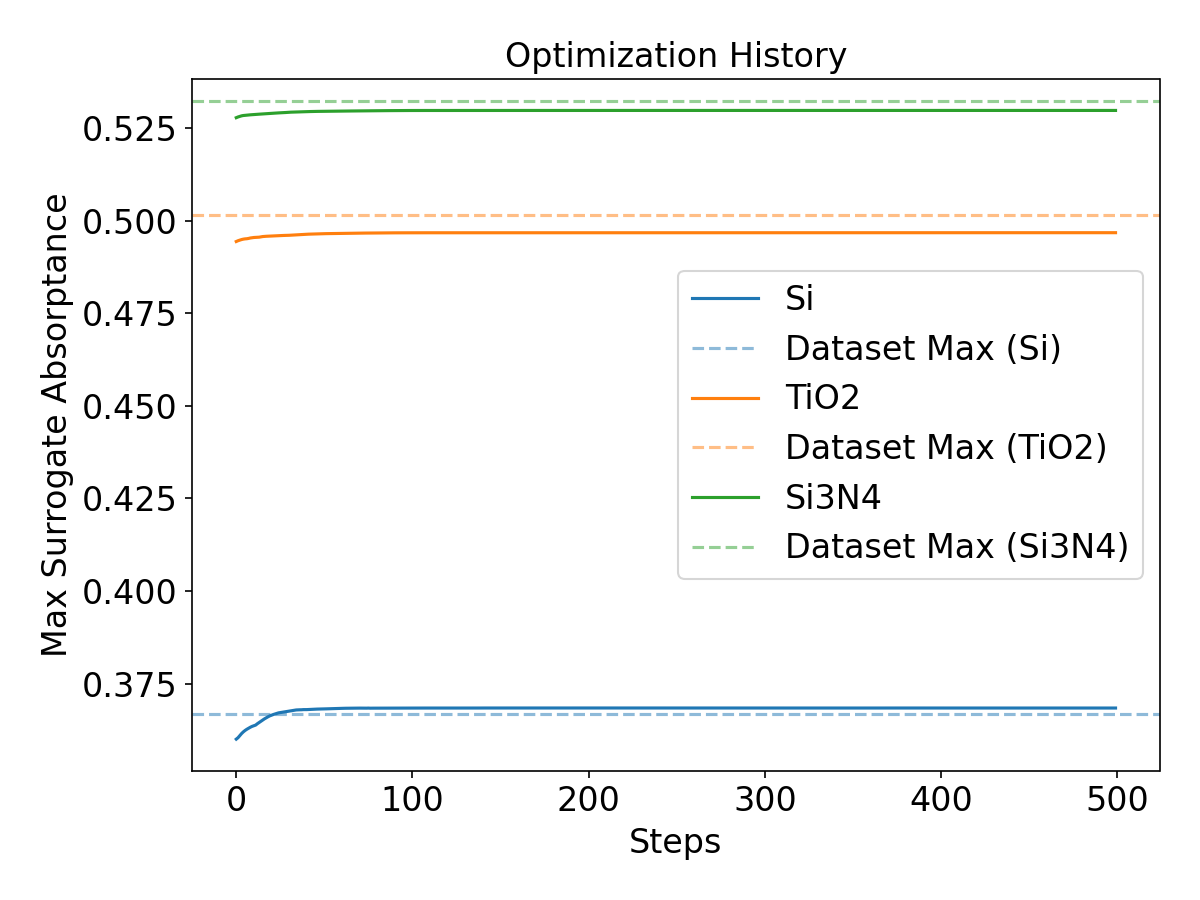
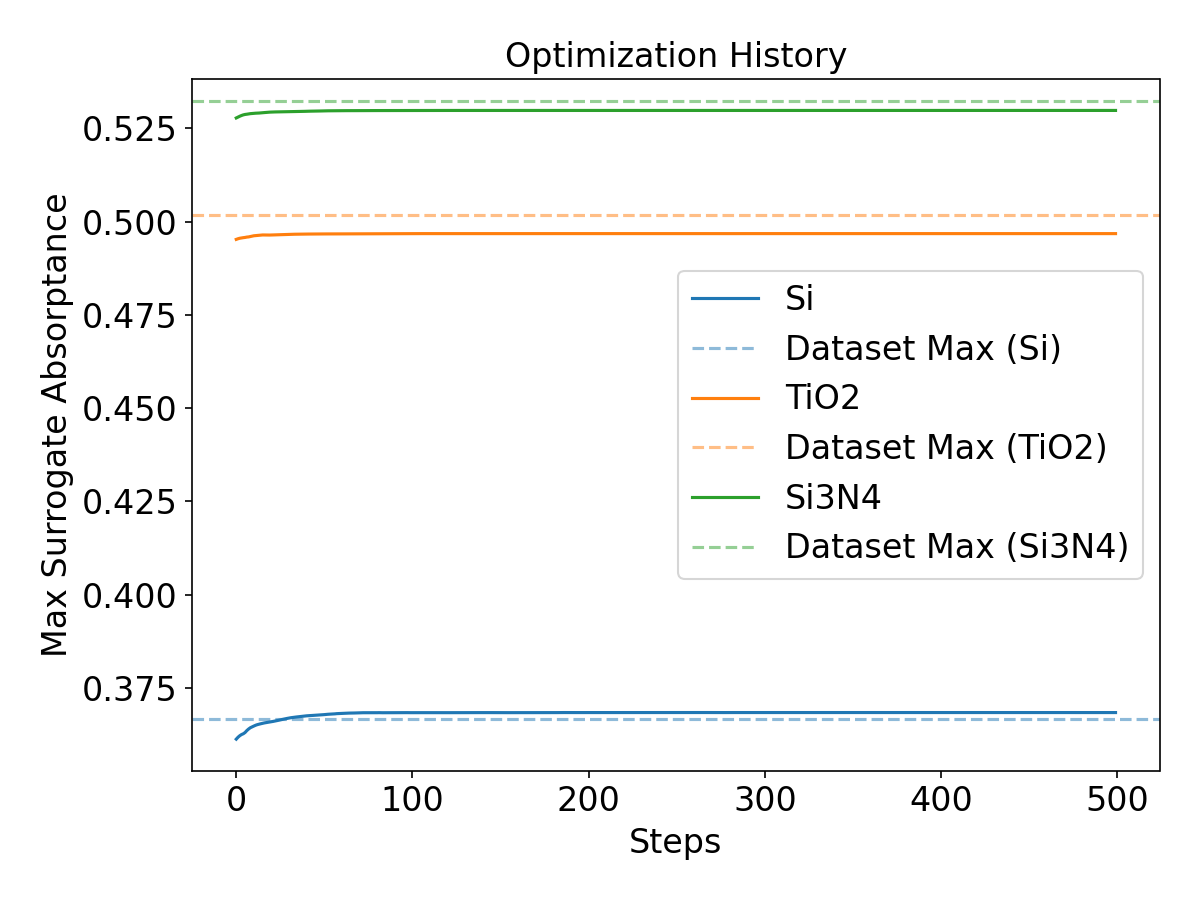
new surrogate optimization results

diff --git a/scratch_flat_si.py b/scratch_flat_si.py
@@ -1,0 +1,45 @@
+import torch
+import numpy as np
+import sys
+from pathlib import Path
+
+PROJECT_ROOT = Path("/home/an/Documents/Inverse-Design-of-Light-trapping-Layers")
+sys.path.insert(0, str(PROJECT_ROOT))
+
+from Utils.utils import RCWAConfig, get_absorptance_curve
+
+dataset_path = PROJECT_ROOT / "Data" / "LHS_Dataset_Si" / "train_dataset.pt"
+d = torch.load(dataset_path, weights_only=False)
+ds_config = d['metadata']['config']
+
+# We'll use the config from the dataset, but override h and incident angle
+ds_config['h'] = 3000.0
+ds_config['inc_ang'] = 1e-3 * np.pi/180
+ds_config['azi_ang'] = 1e-3 * np.pi/180
+
+# Convert to RCWAConfig object
+config = RCWAConfig(**ds_config)
+
+# Flat layer: 0 grating amplitude
+px_data = torch.zeros((5, 2))
+
+wavelengths = torch.from_numpy(np.linspace(300, 1100, 161)).double()
+
+print("Simulating flat 3000nm Si layer...")
+A_film, _ = get_absorptance_curve(
+    params_x=px_data,
+    params_y=None,
+    wavelengths=wavelengths,
+    config=config,
+    show_progress=False
+)
+
+bdt_p = A_film[:, 0].cpu().numpy()
+bdt_s = A_film[:, 1].cpu().numpy()
+
+avg_p = np.mean(bdt_p)
+avg_s = np.mean(bdt_s)
+
+print(f"Average P-pol: {avg_p:.4f}")
+print(f"Average S-pol: {avg_s:.4f}")
+print(f"Total Average: {(avg_p + avg_s)/2:.4f}")

diff --git a/Report/sections/04_results.tex b/Report/sections/04_results.tex
@@ -185,14 +185,14 @@ I think not having the full spectrums, and therefore losing the ability to train
 \newpage
 \section{Surrogate Model Optimization}
 The surrogate optimization procedure is a straight forward idea. If the surrogate can accurately predict absorptance curves in the design space, we should take advtange of the batches capabilites. First, an enourmous amount of random samples, say $10^7$ are evaluated in large batches. The best performing $N$ of these samples are then optimized using the Adam optimizer of pytorch.
-Then torcwa is used for validation of the best found design, and hopefully the output exceeds the training dataset. The process is stochastic, so results vary from time to time. Figure \ref{fig:surrogateOptHist} shows the surrogate optimization history after random sampling of the \texttt{forward\_mlp} and figure \ref{fig:surrogateOptRes} shows the results.
+Then torcwa is used for validation of the best found design, and hopefully the output exceeds the training dataset. The process is stochastic, so results vary from time to time. Figure \ref{fig:surrogateOptHistory} shows the surrogate optimization history after random sampling of the \texttt{forward\_mlp} and figure \ref{fig:surrogateOptRes} shows the results.
 In the appendix, the same results are included for the two other forward models.
 
 \begin{figure}
     \centering
     \includegraphics[width=1\textwidth]{../Checkpoints/Si_TiO2_Si3N4/evaluation/surrogate_optimization/inc0.0_forward_mlp/optimization_history_geometry.png}
     \caption{The history of the surrogate optimization using \texttt{forward\_mlp}. Noteably, even though the surrogate doesnt think it will do better than the dataset max of TiO$_2$ and Si$_3$N$_4$, in the end, it still (slightly) outperforms the dataset.}
-    \label{fig:surrogateOptHist}
+    \label{fig:surrogateOptHistory}
 \end{figure}
 
 \begin{figure}
@@ -228,19 +228,22 @@ The results of the topology optimization are seen in table \ref{tab:opt_vs_lhs_v
 \label{tab:opt_vs_lhs_vs_surr}
 \begin{tabular}{@{}llcc@{}}
 \toprule
-\textbf{Material} & \textbf{Method} & \textbf{Absorptance} & \textbf{Height (nm)} \\
+\textbf{Material} & \textbf{Method} & \textbf{Film Absorptance} & \textbf{Height (nm)} \\
 \midrule
-Si & Topology Optimization & 0.29 & 1429 \\
- & Surrogate optimization & \textbf{0.368} & 2996  \\
- & LHS Best Datapoint & 0.367 & 2914 \\
+Si & Topology Optimization & 0.29 $\pm$ 0.01 & 1429 \\
+ & Surrogate Optimization & 0.368 $\pm$ 0.01 & 2996  \\
+ & LHS Best Datapoint & 0.367 $\pm$ 0.01 & 2914 \\
+ & Bare Silicon Baseline & \textbf{0.37} $\pm$ 0.01 & 3000  \\
 \midrule
-TiO$_2$ & Topology Optimization & 0.491 & 2997  \\
- & Surrogate optimization & \textbf{0.503} & 3000 \\
- & LHS Best Datapoint & 0.502 & 2994  \\
+TiO$_2$ & Topology Optimization & 0.491 $\pm$ 0.01 & 2997  \\
+ & Surrogate Optimization & \textbf{0.503} $\pm$ 0.01 & 3000 \\
+ & LHS Best Datapoint & 0.502 $\pm$ 0.01 & 2994  \\
+ & Bare Silicon Baseline & 0.37 $\pm$ 0.01 & 3000  \\
 \midrule
-Si$_3$N$_4$ & Topology Optimization & 0.493 & 2415  \\
- & Surrogate optimization & \textbf{0.535} & 3000 \\
- & LHS Best Datapoint & 0.532 & 2987  \\
+Si$_3$N$_4$ & Topology Optimization & 0.493 $\pm$ 0.01 & 2415  \\
+ & Surrogate Optimization & \textbf{0.535} $\pm$ 0.01 & 3000 \\
+ & LHS Best Datapoint & 0.532 $\pm$ 0.01 & 2987  \\
+ & Bare Silicon Baseline & 0.37 $\pm$ 0.01 & 3000  \\
 \bottomrule
 \end{tabular}
 \end{table}

diff --git a/Scripts/evaluate_surrogate_optimization.py b/Scripts/evaluate_surrogate_optimization.py
@@ -168,7 +168,7 @@ def main():
         print("\n=> ERROR: No forward models found in Checkpoints directory!")
         return
     
-    print(f"Loaded {Path(fwd_name).name} for surrogate optimization (test loss: {test_loss:.4f})")
+    print(f"Loaded {Path(fwd_name).name} for surrogate optimization (test loss: {test_loss:.3f})")
     
     # --- Resolution overrides ---
     is_siren = isinstance(model, SIREN)
@@ -209,10 +209,10 @@ def main():
     print(f"Bands: {bands if bands else 'Full Spectrum 300-1100nm'}")
     
     if args.inc_val is not None:
-        print(f"[*] Pinned Incident Angle to exactly {args.inc_val:.2f} degrees")
+        print(f"[*] Pinned Incident Angle to exactly {args.inc_val:.3f} degrees")
     else:
         actual_max_inc = args.max_inc_deg if args.max_inc_deg is not None else geo_max[-1].item()
-        print(f"Bounded Incident Angle search up to {actual_max_inc:.2f} degrees")
+        print(f"Bounded Incident Angle search up to {actual_max_inc:.3f} degrees")
     
     opt = BatchedSurrogateOptimizer(
         model, geo_min, geo_max, n_harmonics=n_harmonics_opt,
@@ -251,9 +251,9 @@ def main():
     target_curve = res["target"]
     mask = res["mask"]
     
-    print(f"Optimization finished! Best Surrogate Absorptance: {res['best_loss']:.4f}")
+    print(f"Optimization finished! Best Surrogate Absorptance: {res['best_loss']:.3f}")
     print(f"Selected Material: {mat_name}")
-    print(f"Height: {h_val:.2f} nm, Incident Angle: {inc_ang:.2f} deg")
+    print(f"Height: {h_val:.3f} nm, Incident Angle: {inc_ang:.3f} deg")
     
     # Plotting
     folder_name = get_folder_name(args)
@@ -274,7 +274,7 @@ def main():
         best_dataset_geo = {m: r["geos"][r["metric"].argmax()].clone() for m, r in baseline_res.items()}
         
         for m, score in best_dataset_abs.items():
-            print(f"Dataset Best {m}: {score:.4f}")
+            print(f"Dataset Best {m}: {score:.3f}")
     except Exception as e:
         print(f"Could not load dataset baseline: {e}")
         baseline_res = None
@@ -410,7 +410,7 @@ def main():
         cmap = plt.cm.viridis
         
         rank = (idx % args.top_k) + 1
-        print(f"  -> Rank {rank} [{mat_name}]: Torcwa {metric_name} = {rcwa_val:.4f}{unit} (Surr {metric_name} = {r['loss']:.4f})")
+        print(f"  -> Rank {rank} [{mat_name}]: Torcwa {metric_name} = {rcwa_val:.3f}{unit} (Surr {metric_name} = {r['loss']:.3f})")
         
         ax_row = axes[idx]
         
@@ -504,7 +504,7 @@ def main():
         ax.plot(surr_wls, surr_p, linestyle="-", color=c_surr, lw=3, alpha=0.8, label="Surrogate")
         ax.plot(WAVELENGTHS, rcwa_p, linestyle="-", color=c_physics, lw=2.5, alpha=0.8, label="Torcwa Physics")
         dataset_str = f" | Dataset {metric_name}={best_abs_for_mat:.3f}" if bdt_p is not None else ""
-        ax.set_title(f"{mat_name} (P-Pol)\nTorcwa {metric_name}={rcwa_val:.2f}{unit} | Surr {metric_name}={r['loss']:.4f}{dataset_str}")
+        ax.set_title(f"{mat_name} (P-Pol)\nTorcwa {metric_name}={rcwa_val:.3f}{unit} | Surr {metric_name}={r['loss']:.3f}{dataset_str}")
         ax.set_ylim(-0.05, 1.05)
         if idx == 0: ax.legend()
         ax.tick_params(axis='both', which='major', labelsize=16)
@@ -520,7 +520,7 @@ def main():
         ax.plot(surr_wls, surr_s, linestyle="-", color=c_surr, lw=3, alpha=0.8, label="Surrogate")
         ax.plot(WAVELENGTHS, rcwa_s, linestyle="-", color=c_physics, lw=2.5, alpha=0.8, label="Torcwa Physics")
         dataset_str2 = f" | Dataset {metric_name}={best_abs_for_mat:.3f}" if bdt_s is not None else ""
-        ax.set_title(f"{mat_name} (S-Pol)\nTorcwa {metric_name}={rcwa_val:.2f}{unit} | Surr {metric_name}={r['loss']:.4f}{dataset_str2}")
+        ax.set_title(f"{mat_name} (S-Pol)\nTorcwa {metric_name}={rcwa_val:.3f}{unit} | Surr {metric_name}={r['loss']:.3f}{dataset_str2}")
         ax.set_ylim(-0.05, 1.05)
         ax.tick_params(axis='both', which='major', labelsize=16)
         